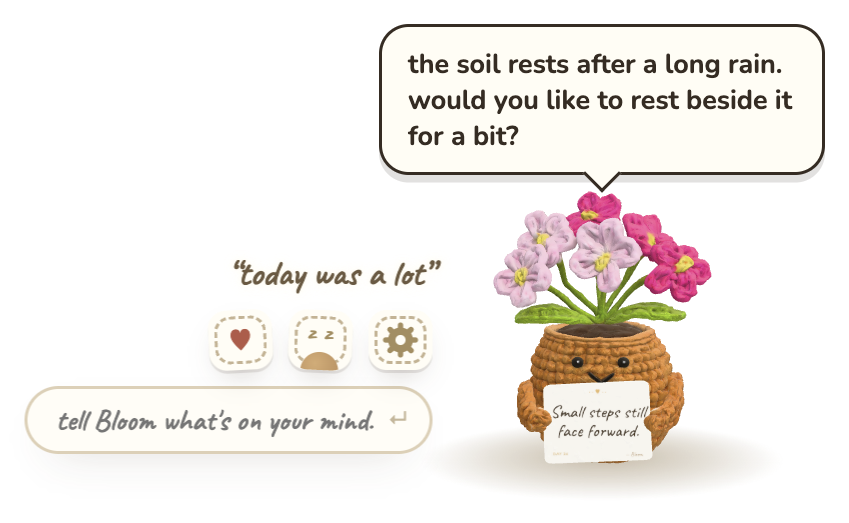
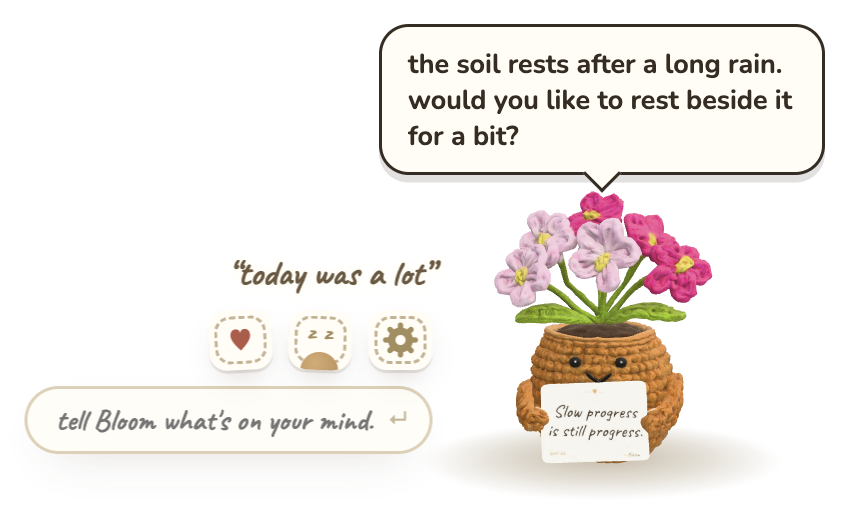
Draw the demo cards from the real quote and internet libraries
Seven of the nine card lines in the shots were written for the shots — and two
of them were "goldens" carrying attributions (The Lion King, John Burroughs)
that appear nowhere in quotes.en.ts. The golden hero shot was worse: an
unsourced aphorism, when the whole point of a golden is that it is either an
attributed famous line or a live weave. The screenshots were advertising
something the app does not hand out.

Every line now comes verbatim from shipped content:
  · goldens → app/src/quotes.en.ts with that entry's real attribution, so the
    card foot prints "— Winnie the Pooh" and the sign switches to DAY n, which
    is what an attributed golden actually renders as
  · normals → server/scripts/internet-lines.en.txt, the normal pool's source

In the Card Book the two goldens now read "day 14 — Peter Pan" and "day 8 —
Finding Nemo" off src||by, so it is visible at a glance that goldens are famous
lines and normals are signed by whoever was on duty.

Also widens refresh-media to re-shoot every media file rather than only the
buddy-bearing ones. Scoping it left cardbook.png stale here: the shots share
fixtures, so a card-copy change dirties shots that have no buddy in them.

diff --git a/app/src/shot-studio.ts b/app/src/shot-studio.ts
@@ -46,7 +46,7 @@ const $ = (id: string) => document.getElementById(id)!;
 // content follows (server/src/personas.ts for the distill phrasing: third
 // person, no trailing period, they/their), so the shots read as a real save.
 
-const HERO_CARD = "You don't have to be perfect to be wonderful";
+const HERO_CARD = 'You can do hard things.';
 const HERO_MUTTER = 'the lamp hums. i don’t mind it.';
 
 // Seven cards. The grid is 3-wide, so seven runs 3 · 3 · 1 and the short last
@@ -55,19 +55,24 @@ const HERO_MUTTER = 'the lamp hums. i don’t mind it.';
 // show what the ✦ and the ♥ actually look like, and a golden signed by its
 // source is the common case the Golden Stitch section describes.
 //
-// The normal pool is VOICE-NEUTRAL — every persona draws the same lines (the
-// `daily` pool below, and the server's batch), so `by` records who was on duty
-// when it was drawn, not who wrote it. These stay in that register: warm,
-// sentence case, one breath long. A line in a buddy's own voice is wrong here
-// however good it is — and all-caps sets as a brick in Caveat besides.
+// Every line here is REAL shipped content, not written for the shot — so the
+// screenshots promise exactly what the app hands out:
+//   · normal cards  → server/scripts/internet-lines.en.txt (the normal pool's
+//     source; voice-neutral, so `by` records who was on duty, not who wrote it)
+//   · golden cards  → app/src/quotes.en.ts, WITH that entry's real attribution.
+//     A golden without a `src` would misrepresent the feature: goldens are
+//     either an attributed famous line or a live weave, never an unsourced
+//     aphorism. Keep the pairing exact — the card foot prints it verbatim.
+// Both fit the card box: cardFont() drops a size past 70 chars, so short reads
+// biggest. All-caps sets as a brick in Caveat — leave it to the chat bubbles.
 const DEMO_CARDS: AppState['cards'] = [
-  { m: 'Rest is productive. Signed, a potato.', rare: false, day: 3, by: 'Spud' },
-  { m: 'Look inside yourself. You are more than what you have become.', rare: true, day: 8, by: 'Sprinkles', src: 'The Lion King' },
-  { m: 'Water. Snack. Deep breath. In that order. Go.', rare: false, day: 9, by: 'Taco' },
-  { m: 'Small steps still face forward.', rare: false, day: 12, by: 'Bloom' },
-  { m: 'Leap, and the net will appear.', rare: true, day: 14, by: 'Spud', src: 'John Burroughs', fav: true },
-  { m: 'You have survived every single one of your worst days.', rare: false, day: 17, by: 'Mochi', fav: true },
-  { m: 'This little potato believes in you.', rare: false, day: 24, by: 'Spud' },
+  { m: 'Just keep swimming.', rare: true, day: 8, by: 'Spud', src: 'Finding Nemo' },
+  { m: 'Collect moments, not things.', rare: false, day: 9, by: 'Taco' },
+  { m: 'Trust the timing of your life.', rare: false, day: 12, by: 'Bloom' },
+  { m: 'To live will be an awfully big adventure.', rare: true, day: 14, by: 'Spud', src: 'Peter Pan', fav: true },
+  { m: "Storms don't last forever.", rare: false, day: 17, by: 'Mochi', fav: true },
+  { m: 'Rest is productive too.', rare: false, day: 21, by: 'Prof' },
+  { m: 'Bloom where you are planted.', rare: false, day: 24, by: 'Bloom' },
 ];
 
 // Six patches — the quilt is 2-wide, so six is three clean rows. One per doodle
@@ -209,7 +214,7 @@ const SHOTS: Record<string, Shot> = {
       const state = demoState();
       await petScene('spud', {
         top: '· · ♥ · ·',
-        main: 'Small steps still face forward.',
+        main: 'Slow progress is still progress.',
         footL: TXT().ui.dayShort(state.day),
         footR: `— Spud`,
       });
@@ -231,7 +236,7 @@ const SHOTS: Record<string, Shot> = {
       const state = demoState({ active: 'bloom' });
       await petScene('bloom', {
         top: '· · ♥ · ·',
-        main: 'Small steps still face forward.',
+        main: 'Slow progress is still progress.',
         footL: TXT().ui.dayShort(state.day),
         footR: `— Bloom`,
       });
@@ -247,7 +252,7 @@ const SHOTS: Record<string, Shot> = {
     view: DOM_VIEW,
     async render() {
       const state = demoState();
-      showCard(state, { msg: 'This little potato believes in you.', rare: false, keptToday: false },
+      showCard(state, { msg: 'Some days you just have to create your own sunshine.', rare: false, keptToday: false },
         { onKeep: () => {}, onLater: () => {} });
       stageToRoot();
     },
@@ -264,7 +269,8 @@ const SHOTS: Record<string, Shot> = {
     async render() {
       const state = demoState();
       showCard(state, {
-        msg: 'You are not behind. You are exactly here, and here is where the good stuff starts.',
+        msg: 'Sometimes the smallest things take up the most room in your heart.',
+        src: 'Winnie the Pooh',
         rare: true,
         keptToday: false,
       }, { onKeep: () => {}, onLater: () => {} });
